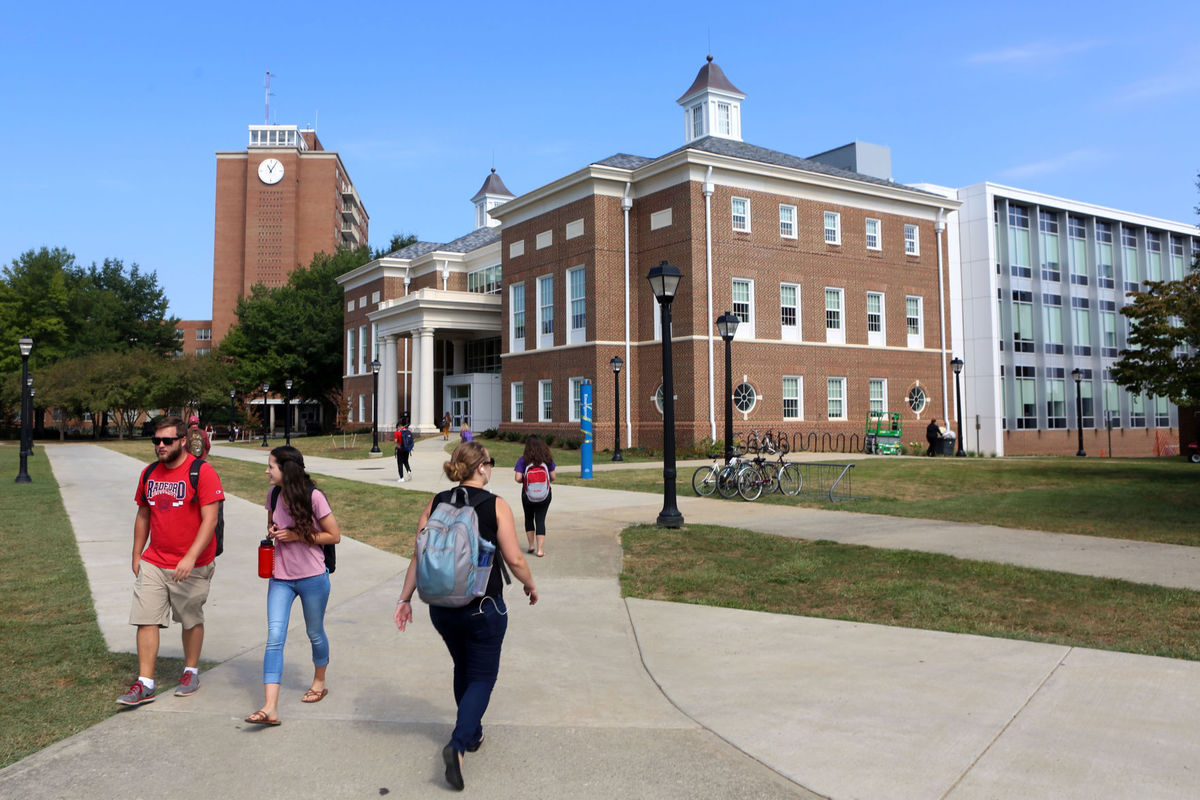
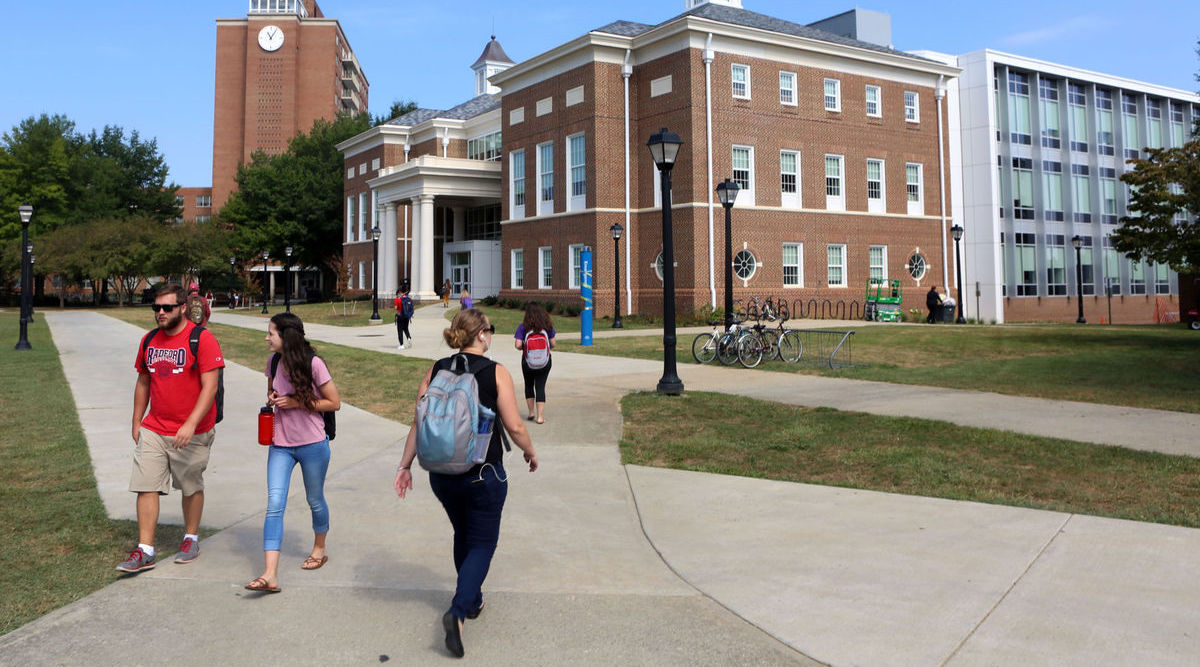
Changes: Homepage.jpg  -> Cropped for better balance in the jumbotron container homePage-Styles.css -> jumbotron image now spans full width of view and resizes well for mobile devices LoginPage.js -> background image now fills the entire view

diff --git a/cas-project/src/components/homePage/homePage-Styles.css b/cas-project/src/components/homePage/homePage-Styles.css
@@ -7,10 +7,8 @@
 #jumbo-Container{
     display: inline-block;
     overflow: hidden;
-    margin-top: 60px;
-    margin-bottom: 40px;
-    max-width: 1280px;
-    height: 50%;
+    width: 100%;
+    max-height: 70%;
 }
 .jumbotron{
     height: 100%;
@@ -22,9 +20,9 @@
     display: inline-block;
     overflow: hidden;
     left: 50%;
-    margin-top: -120px;
     background-position:center;
     margin-right: auto;
     background-size: cover;
     width: 100%;
+    background-height:90%;
 }

diff --git a/cas-project/src/components/loginPage/LoginPage.js b/cas-project/src/components/loginPage/LoginPage.js
@@ -32,8 +32,8 @@ class LoginPage extends React.Component {
     }
 
     drawLogBackground() {
-        return(<div id="loginBackgroundStretch">
-            <img src = {require('./../../../public/images/loginBackground.jpg')}/>
+        return(<div id="loginBackgroundStretch" src>
+            <img className = "background-image" src = {require('./../../../public/images/loginBackground.jpg')}/>
         </div>);
     }
 

diff --git a/cas-project/src/components/signUpPage/signUpPage-Styles.css b/cas-project/src/components/signUpPage/signUpPage-Styles.css
@@ -17,6 +17,10 @@
     border: 1px solid #ccc;
     box-shadow: 0 1px 2px rgba(0, 0, 0, .1);
 }
+.background-image {
+    width: 100%;
+    height: 100%;
+}
 
 #top-div-Container {
     background-color: #c2011b;
